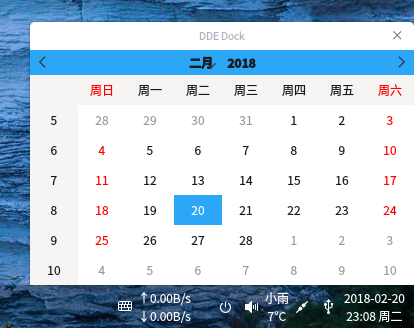
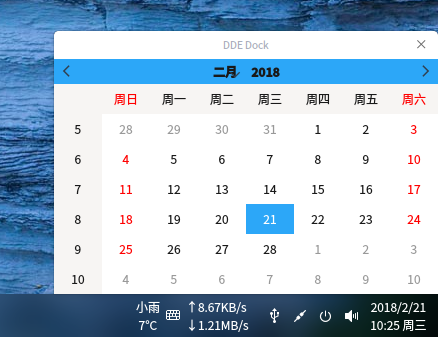
修改id，解决右键与原版datetime同时启用、同时关闭的问题

diff --git a/datetimeplugin.cpp b/datetimeplugin.cpp
@@ -29,7 +29,7 @@ DatetimePlugin::DatetimePlugin(QObject *parent)
       m_dateTipsLabel(new QLabel),
       m_refershTimer(new QTimer(this))
 {
-    m_dateTipsLabel->setObjectName("datetime");
+    m_dateTipsLabel->setObjectName("datetime1");
     m_dateTipsLabel->setStyleSheet("color:white; padding:0px 3px;");
 
     m_refershTimer->setInterval(1000);
@@ -51,12 +51,12 @@ DatetimePlugin::DatetimePlugin(QObject *parent)
 
 const QString DatetimePlugin::pluginName() const
 {
-    return "datetime";
+    return "datetime1";
 }
 
 const QString DatetimePlugin::pluginDisplayName() const
 {
-    return tr("Datetime");
+    return tr("Datetime1");
 }
 
 void DatetimePlugin::init(PluginProxyInterface *proxyInter)

diff --git a/datetimewidget.cpp b/datetimewidget.cpp
@@ -32,7 +32,7 @@
 
 DatetimeWidget::DatetimeWidget(QWidget *parent)
     : QWidget(parent),
-    m_settings("deepin", "dde-dock-datetime"),
+    m_settings("deepin", "dde-dock-datetime1"),
     m_24HourFormat(m_settings.value("24HourFormat", true).toBool())
 {
 
@@ -95,7 +95,7 @@ void DatetimeWidget::paintEvent(QPaintEvent *e)
         QString format;
         if (m_24HourFormat)
             // format = "hh:mm";
-            format = "yyyy-MM-dd\nHH:mm ddd";
+            format = "yyyy/M/dd\nHH:mm ddd";
         else
         {
             if (position == Dock::Top || position == Dock::Bottom)

diff --git a/datetimeplugin.h b/datetimeplugin.h
@@ -33,7 +33,7 @@ class DatetimePlugin : public QObject, PluginsItemInterface
 {
     Q_OBJECT
     Q_INTERFACES(PluginsItemInterface)
-    Q_PLUGIN_METADATA(IID "com.deepin.dock.PluginsItemInterface" FILE "datetime.json")
+    Q_PLUGIN_METADATA(IID "com.deepin.dock.PluginsItemInterface" FILE "datetime1.json")
 
 public:
     explicit DatetimePlugin(QObject *parent = 0);
